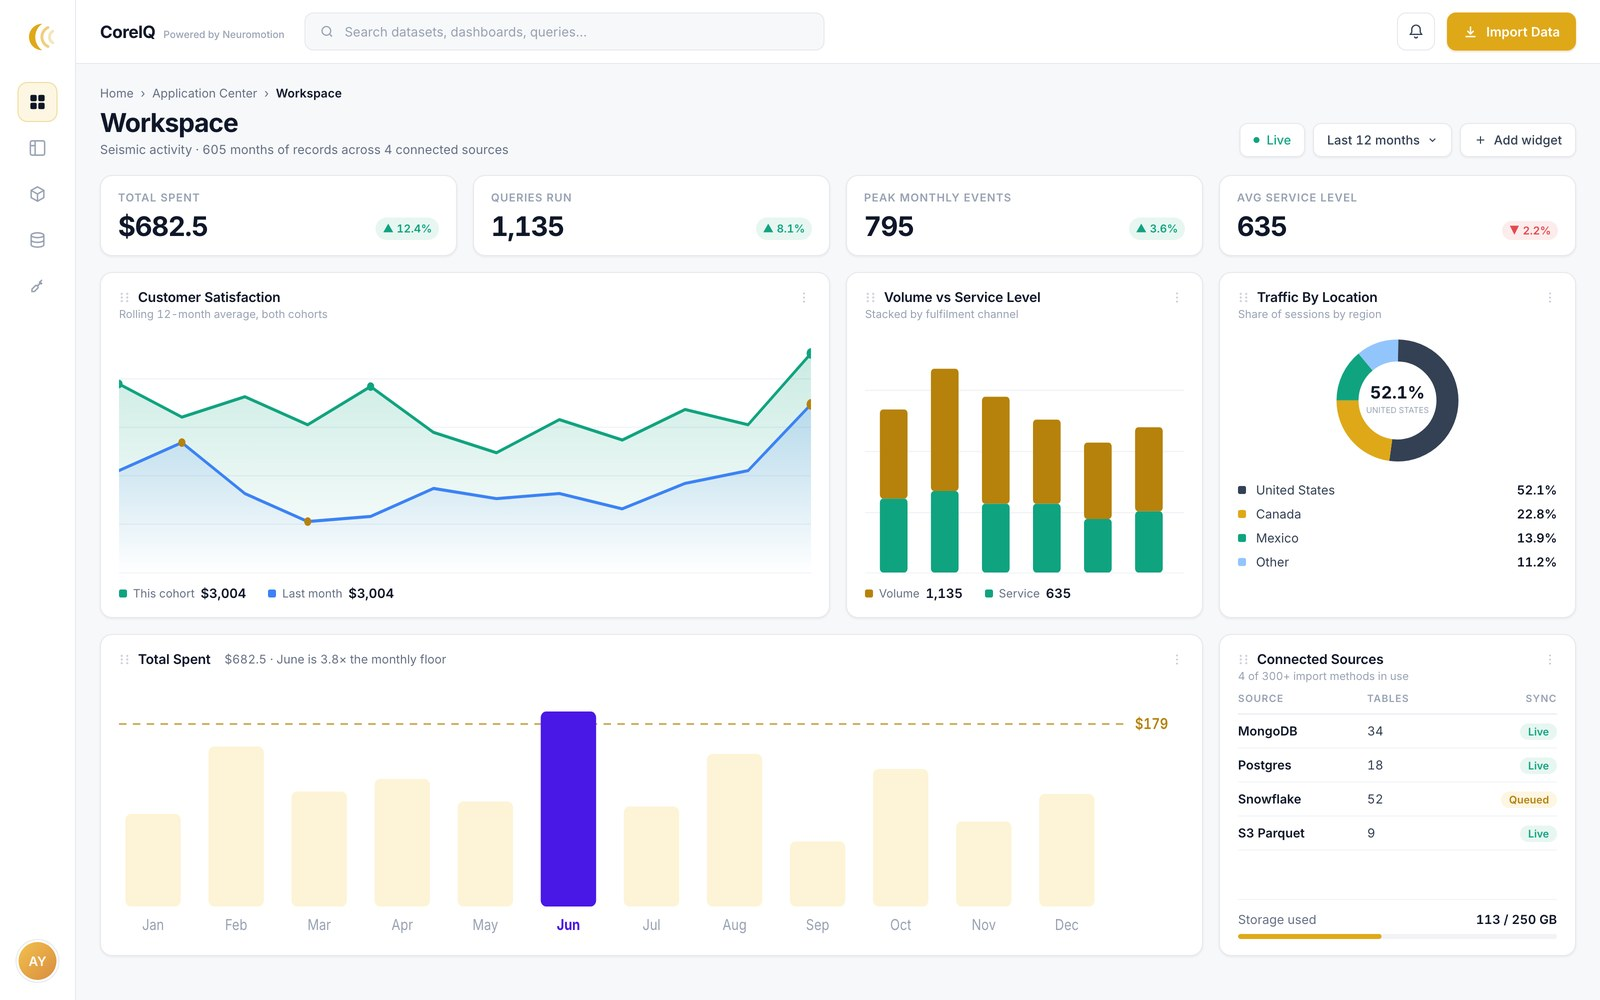
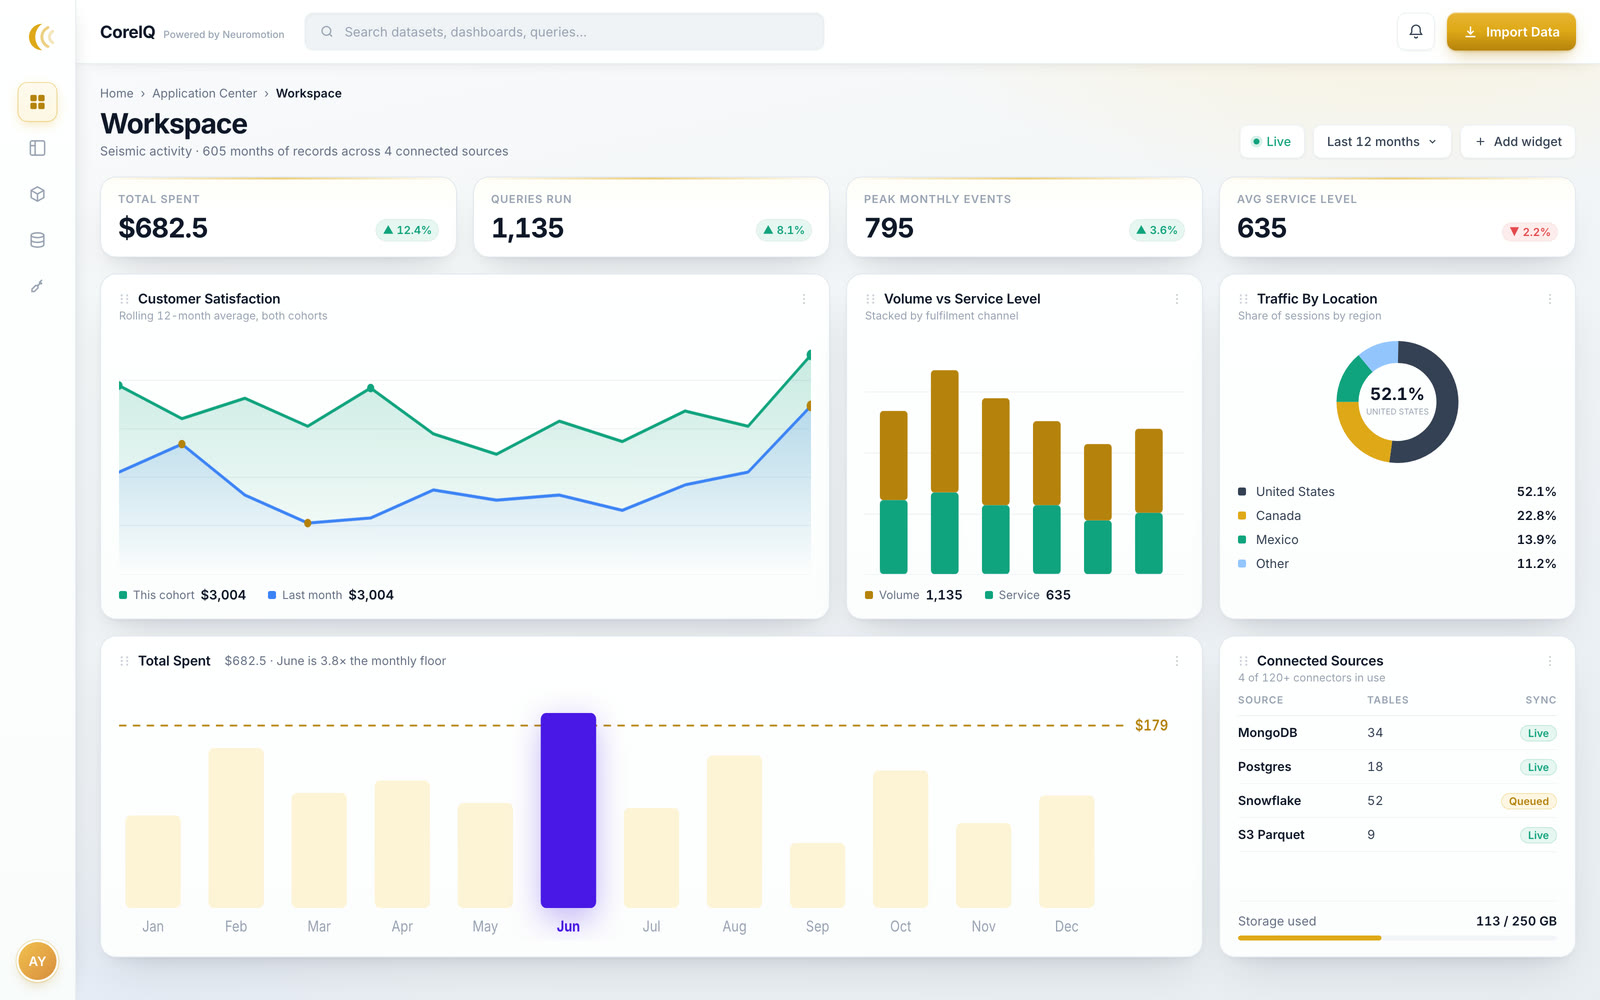
Mockup said 300+ import methods while the copy said 120+ connectors
The hero render is rebuilt art, so the number in it is a choice like any
other. Matched it to the figure the product publishes, and regenerated the jpg.

diff --git a/mockups/query-ai-dashboard.html b/mockups/query-ai-dashboard.html
@@ -37,12 +37,19 @@
         --ink-2: #344054;
         --muted: #667085;
         --faint: #98a2b3;
-        --line: #e7e9ee;
-        --line-soft: #f1f3f7;
-        --page: #f7f8fa;
+        --line: #ecf0f5;
+        --line-soft: #f3f5f9;
+        --page: #eff2f6;
         --card: #ffffff;
 
-        --shadow: 0 1px 2px rgba(16, 24, 40, 0.04), 0 1px 3px rgba(16, 24, 40, 0.03);
+        --shadow-xs: 0 1px 2px rgba(16, 24, 40, 0.05);
+        --shadow: 0 1px 1px rgba(16, 24, 40, 0.04), 0 4px 10px -2px rgba(16, 24, 40, 0.05),
+          0 14px 28px -10px rgba(16, 24, 40, 0.07);
+        --shadow-lift: 0 2px 4px rgba(16, 24, 40, 0.05), 0 14px 26px -8px rgba(16, 24, 40, 0.1),
+          0 30px 54px -16px rgba(16, 24, 40, 0.12);
+        /* the highlight that sells a surface as lit from above */
+        --ring: inset 0 1px 0 rgba(255, 255, 255, 0.92);
+        --ease: cubic-bezier(0.22, 1, 0.36, 1);
       }
 
       * { box-sizing: border-box; margin: 0; padding: 0; }
@@ -69,23 +76,30 @@
         flex-direction: column;
         align-items: center;
         padding: 18px 0 20px;
-        background: var(--card);
+        background: linear-gradient(180deg, #ffffff 0%, #fcfdfe 70%, #f9fbfc 100%);
+        box-shadow: 1px 0 0 rgba(16, 24, 40, 0.02), 8px 0 24px -18px rgba(16, 24, 40, 0.3);
+        position: relative; z-index: 3;
       }
       .logo { width: 38px; height: 38px; margin-bottom: 26px; }
       .rail-btn {
         width: 40px; height: 40px; border-radius: 10px;
         display: grid; place-items: center; margin-bottom: 6px; color: var(--faint);
+        transition: color 0.2s var(--ease), background 0.2s var(--ease), transform 0.2s var(--ease);
       }
+      .rail-btn:hover { color: var(--ink-2); background: var(--line-soft); }
       .rail-btn.on {
-        color: var(--ink); background: var(--gold-tint);
-        box-shadow: inset 0 0 0 1px rgba(223, 168, 24, 0.35);
+        color: var(--gold-deep);
+        background: linear-gradient(180deg, #fefaef, var(--gold-tint));
+        box-shadow: inset 0 0 0 1px rgba(223, 168, 24, 0.4), inset 0 1px 0 rgba(255, 255, 255, 0.9),
+          0 4px 12px -3px rgba(223, 168, 24, 0.35);
       }
       .rail-spacer { flex: 1; }
       .avatar {
         width: 38px; height: 38px; border-radius: 50%;
         background: linear-gradient(135deg, #f2c14e, #d98c3f);
         display: grid; place-items: center; color: #fff; font-size: 13px; font-weight: 600;
-        box-shadow: 0 0 0 2px #fff, 0 0 0 3px var(--line);
+        box-shadow: 0 0 0 2px #fff, 0 0 0 3px rgba(223, 168, 24, 0.28),
+          0 6px 14px -4px rgba(182, 130, 12, 0.45);
       }
 
       /* ----------------------------------------------------------- shell -- */
@@ -95,6 +109,8 @@
       .topbar {
         height: 64px; flex: none; border-bottom: 1px solid var(--line);
         display: flex; align-items: center; gap: 20px; padding: 0 24px; background: var(--card);
+        box-shadow: 0 1px 0 rgba(16, 24, 40, 0.02), 0 6px 18px -12px rgba(16, 24, 40, 0.18);
+        position: relative; z-index: 2;
       }
       .brand { display: flex; align-items: baseline; gap: 8px; }
       .brand-name { font-size: 17px; font-weight: 700; letter-spacing: -0.02em; }
@@ -105,35 +121,56 @@
         background: var(--page); border: 1px solid var(--line);
         display: flex; align-items: center; gap: 10px; padding: 0 14px;
         color: var(--faint); font-size: 13px;
+        box-shadow: inset 0 1px 2px rgba(16, 24, 40, 0.04);
+        transition: border-color 0.2s var(--ease), box-shadow 0.2s var(--ease);
       }
       .top-right { margin-left: auto; display: flex; align-items: center; gap: 12px; }
       .btn-gold {
-        height: 38px; padding: 0 16px; border-radius: 9px; background: var(--gold);
+        height: 38px; padding: 0 16px; border-radius: 9px;
+        background: linear-gradient(180deg, #e8b432 0%, var(--gold) 48%, var(--gold-deep) 100%);
         color: #fff; font-size: 13px; font-weight: 600; display: flex; align-items: center; gap: 8px;
-        box-shadow: 0 1px 2px rgba(182, 130, 12, 0.3);
+        box-shadow: inset 0 1px 0 rgba(255, 255, 255, 0.34), 0 1px 2px rgba(182, 130, 12, 0.34),
+          0 8px 18px -6px rgba(182, 130, 12, 0.5);
+        transition: transform 0.2s var(--ease), box-shadow 0.2s var(--ease), filter 0.2s var(--ease);
+      }
+      .btn-gold:hover {
+        transform: translateY(-1px);
+        filter: saturate(1.06) brightness(1.03);
+        box-shadow: inset 0 1px 0 rgba(255, 255, 255, 0.4), 0 2px 4px rgba(182, 130, 12, 0.3),
+          0 14px 26px -8px rgba(182, 130, 12, 0.55);
       }
       .icon-btn {
         width: 38px; height: 38px; border-radius: 9px; border: 1px solid var(--line);
         display: grid; place-items: center; color: var(--ink-2);
+        box-shadow: var(--shadow-xs);
+        transition: border-color 0.2s var(--ease), box-shadow 0.2s var(--ease), transform 0.2s var(--ease);
       }
 
       /* ----------------------------------------------------------- board -- */
 
-      .board { flex: 1; background: var(--page); padding: 22px 24px; overflow: hidden; }
+      .board {
+        flex: 1; padding: 22px 24px; overflow: hidden;
+        background: radial-gradient(900px 460px at 86% -16%, #fcefcf 0%, rgba(252, 239, 207, 0) 62%),
+          radial-gradient(820px 420px at -4% 108%, #e2e9f7 0%, rgba(226, 233, 247, 0) 60%),
+          linear-gradient(168deg, #f9fafc 0%, #eef1f6 58%, #e9edf3 100%);
+      }
 
       .crumbs { font-size: 12px; color: var(--muted); display: flex; align-items: center; gap: 7px; }
       .crumbs b { color: var(--ink); font-weight: 600; }
 
       .head { display: flex; align-items: flex-end; justify-content: space-between; margin: 8px 0 18px; }
-      .h1 { font-size: 26px; font-weight: 700; letter-spacing: -0.03em; line-height: 1.1; }
+      .h1 { font-size: 28px; font-weight: 700; letter-spacing: -0.035em; line-height: 1.08; }
       .h1-sub { font-size: 12.5px; color: var(--muted); margin-top: 5px; }
       .head-tools { display: flex; align-items: center; gap: 8px; }
       .chip {
         height: 34px; padding: 0 13px; border-radius: 8px; background: var(--card);
         border: 1px solid var(--line); font-size: 12.5px; font-weight: 500; color: var(--ink-2);
-        display: flex; align-items: center; gap: 7px; box-shadow: var(--shadow);
+        display: flex; align-items: center; gap: 7px; box-shadow: var(--shadow-xs);
+        transition: border-color 0.2s var(--ease), box-shadow 0.2s var(--ease), transform 0.2s var(--ease);
       }
+      .chip:hover { border-color: #d5dae3; box-shadow: var(--shadow-xs), 0 6px 14px -6px rgba(16, 24, 40, 0.22); }
       .chip.live { color: var(--green); }
+      .chip.live .dot { box-shadow: 0 0 0 3px rgba(16, 163, 127, 0.16); }
       .dot { width: 6px; height: 6px; border-radius: 50%; background: currentColor; }
 
       /* ------------------------------------------------------------ grid -- */
@@ -141,8 +178,26 @@
       .grid { display: grid; grid-template-columns: repeat(4, 1fr); gap: 16px; }
 
       .card {
-        background: var(--card); border: 1px solid var(--line); border-radius: 12px;
-        box-shadow: var(--shadow); padding: 16px 18px; display: flex; flex-direction: column;
+        background: linear-gradient(180deg, #fff 0%, #fdfdfe 100%);
+        border: 1px solid rgba(224, 230, 238, 0.9); border-radius: 16px;
+        box-shadow: var(--ring), 0 1px 2px rgba(16, 24, 40, 0.04),
+          0 8px 16px -6px rgba(16, 24, 40, 0.07), 0 22px 44px -16px rgba(16, 24, 40, 0.14);
+        padding: 16px 18px; display: flex; flex-direction: column;
+        transition: transform 0.28s var(--ease), box-shadow 0.28s var(--ease), border-color 0.28s var(--ease);
+      }
+      .card:hover {
+        transform: translateY(-3px);
+        border-color: rgba(210, 219, 230, 0.95);
+        box-shadow: var(--ring), 0 2px 4px rgba(16, 24, 40, 0.05),
+          0 16px 30px -8px rgba(16, 24, 40, 0.12), 0 40px 70px -24px rgba(16, 24, 40, 0.2);
+      }
+
+      /* KPI tiles get a hint of warmth at the top edge — reads as lit glass. */
+      .card.kpi { background: linear-gradient(180deg, #fffdf8 0%, #fff 42%); }
+      .card.kpi::before {
+        content: ''; height: 2px; margin: -15px -17px 13px; border-radius: 16px 16px 0 0;
+        background: linear-gradient(90deg, rgba(223, 168, 24, 0), var(--gold), rgba(223, 168, 24, 0));
+        opacity: 0.55;
       }
       .card-head { display: flex; align-items: center; gap: 8px; margin-bottom: 2px; }
       .grip { color: #cdd2dc; flex: none; }
@@ -158,6 +213,7 @@
       .delta {
         font-size: 11px; font-weight: 600; padding: 3px 7px; border-radius: 20px;
         display: inline-flex; align-items: center; gap: 3px;
+        box-shadow: inset 0 0 0 1px rgba(16, 24, 40, 0.03);
       }
       .up { color: var(--green); background: var(--green-tint); }
       .down { color: var(--rose); background: #fdecec; }
@@ -180,11 +236,102 @@
         text-transform: uppercase; color: var(--faint); padding: 0 0 9px;
         border-bottom: 1px solid var(--line);
       }
-      td { padding: 9px 0; font-size: 12.5px; color: var(--ink-2); border-bottom: 1px solid var(--line-soft); }
+      td { padding: 9px 0; font-size: 12.5px; color: var(--ink-2); border-bottom: 1px solid var(--line-soft);
+        transition: color 0.18s var(--ease); }
+      tbody tr { transition: opacity 0.18s var(--ease); }
+      tbody tr:hover td { color: var(--ink); }
+      tbody tr:hover td.n { color: var(--gold-deep); }
       td.n { font-weight: 600; color: var(--ink); }
       .pill { font-size: 10.5px; font-weight: 600; padding: 2px 8px; border-radius: 20px; }
       .pill.ok { color: var(--green); background: var(--green-tint); }
       .pill.warn { color: var(--gold-deep); background: var(--gold-tint); }
+      .pill.ok { box-shadow: inset 0 0 0 1px rgba(16, 163, 127, 0.14); }
+      .pill.warn { box-shadow: inset 0 0 0 1px rgba(223, 168, 24, 0.22); }
+
+      /* ======================================================================
+         Motion.
+
+         Everything is an entrance that SETTLES — no loops, no infinite pulses.
+         The screenshot render (virtual-time-budget 9s) lands long after the
+         last delay (~1.5s), so the static JPG captures the finished state and
+         only a live browser sees the build. Hover states are for the live file
+         and any screen recording; they cannot affect the still.
+         ==================================================================== */
+
+      @keyframes rise { from { opacity: 0; transform: translateY(14px); } to { opacity: 1; transform: none; } }
+      @keyframes fade { from { opacity: 0; } to { opacity: 1; } }
+      @keyframes draw { to { stroke-dashoffset: 0; } }
+      @keyframes grow { from { transform: scaleY(0); } to { transform: scaleY(1); } }
+      @keyframes wipe { from { transform: scaleX(0); } to { transform: scaleX(1); } }
+      @keyframes sweep { from { opacity: 0; transform: rotate(-16deg) scale(0.9); } to { opacity: 1; transform: none; } }
+
+      .rail, .topbar { animation: fade 0.5s ease both; }
+      .crumbs, .head { animation: rise 0.55s var(--ease) both; }
+      .head { animation-delay: 0.06s; }
+
+      /* Cards cascade left-to-right, row by row. */
+      .card { animation: rise 0.62s var(--ease) both; }
+      .board > .grid:nth-of-type(1) .card:nth-child(1) { animation-delay: 0.08s; }
+      .board > .grid:nth-of-type(1) .card:nth-child(2) { animation-delay: 0.14s; }
+      .board > .grid:nth-of-type(1) .card:nth-child(3) { animation-delay: 0.2s; }
+      .board > .grid:nth-of-type(1) .card:nth-child(4) { animation-delay: 0.26s; }
+      .board > .grid:nth-of-type(2) .card:nth-child(1) { animation-delay: 0.32s; }
+      .board > .grid:nth-of-type(2) .card:nth-child(2) { animation-delay: 0.38s; }
+      .board > .grid:nth-of-type(2) .card:nth-child(3) { animation-delay: 0.44s; }
+      .board > .grid:nth-of-type(3) .card:nth-child(1) { animation-delay: 0.5s; }
+      .board > .grid:nth-of-type(3) .card:nth-child(2) { animation-delay: 0.56s; }
+
+      /* Trend lines draw themselves; their area fills follow. */
+      .c-line path[stroke] {
+        stroke-dasharray: 1500; stroke-dashoffset: 1500;
+        animation: draw 1.15s cubic-bezier(0.36, 0, 0.12, 1) 0.5s both;
+      }
+      .c-line path[fill^='url'] { animation: fade 0.8s ease 0.8s both; }
+      .c-line circle { animation: fade 0.5s ease 1.35s both; }
+
+      /* Bars grow off the baseline. */
+      .c-bars rect, .c-stack rect {
+        transform-box: fill-box; transform-origin: 50% 100%;
+        animation: grow 0.7s var(--ease) both;
+      }
+      .c-stack g rect:nth-child(-n + 4) { animation-delay: 0.5s; }
+      .c-stack g rect:nth-child(n + 5):nth-child(-n + 8) { animation-delay: 0.57s; }
+      .c-stack g rect:nth-child(n + 9) { animation-delay: 0.64s; }
+      .c-bars g:first-of-type rect:nth-child(1) { animation-delay: 0.52s; }
+      .c-bars g:first-of-type rect:nth-child(2) { animation-delay: 0.57s; }
+      .c-bars g:first-of-type rect:nth-child(3) { animation-delay: 0.62s; }
+      .c-bars g:first-of-type rect:nth-child(4) { animation-delay: 0.67s; }
+      .c-bars g:first-of-type rect:nth-child(5) { animation-delay: 0.72s; }
+      .c-bars > rect { animation-delay: 0.77s; }
+      .c-bars g:last-of-type rect:nth-child(1) { animation-delay: 0.82s; }
+      .c-bars g:last-of-type rect:nth-child(2) { animation-delay: 0.87s; }
+      .c-bars g:last-of-type rect:nth-child(3) { animation-delay: 0.92s; }
+      .c-bars g:last-of-type rect:nth-child(4) { animation-delay: 0.97s; }
+      .c-bars g:last-of-type rect:nth-child(5) { animation-delay: 1.02s; }
+      .c-bars g:last-of-type rect:nth-child(6) { animation-delay: 1.07s; }
+
+      /* The peak month is the point of the chart — let it sit above the rest. */
+      .c-bars > rect[fill='#4917e6'] { filter: drop-shadow(0 8px 14px rgba(73, 23, 230, 0.32)); }
+      .c-bars line, .c-bars text { animation: fade 0.6s ease 1.1s both; }
+
+      .c-donut { animation: sweep 0.85s var(--ease) 0.5s both; }
+      .rows .row { animation: rise 0.5s var(--ease) both; }
+      .rows .row:nth-child(1) { animation-delay: 0.66s; }
+      .rows .row:nth-child(2) { animation-delay: 0.72s; }
+      .rows .row:nth-child(3) { animation-delay: 0.78s; }
+      .rows .row:nth-child(4) { animation-delay: 0.84s; }
+
+      .bar-fl { transform-origin: left center; animation: wipe 0.9s var(--ease) 0.8s both; }
+      .legend { animation: fade 0.6s ease 1.2s both; }
+      tbody tr { animation: fade 0.5s ease both; }
+      tbody tr:nth-child(1) { animation-delay: 0.62s; }
+      tbody tr:nth-child(2) { animation-delay: 0.68s; }
+      tbody tr:nth-child(3) { animation-delay: 0.74s; }
+      tbody tr:nth-child(4) { animation-delay: 0.8s; }
+
+      @media (prefers-reduced-motion: reduce) {
+        *, *::before, *::after { animation: none !important; transition: none !important; }
+      }
     </style>
   </head>
 
@@ -307,7 +454,7 @@
             </div>
             <div class="card-note">Rolling 12-month average, both cohorts</div>
 
-            <svg viewBox="0 0 660 190" style="width:100%;flex:1;margin-top:10px" preserveAspectRatio="none">
+            <svg class="c-line" viewBox="0 0 660 190" style="width:100%;flex:1;margin-top:10px" preserveAspectRatio="none">
               <defs>
                 <linearGradient id="gGreen" x1="0" y1="0" x2="0" y2="1">
                   <stop offset="0%" stop-color="#10a37f" stop-opacity=".22"/>
@@ -345,7 +492,7 @@
             </div>
             <div class="card-note">Stacked by fulfilment channel</div>
 
-            <svg viewBox="0 0 300 190" style="width:100%;flex:1;margin-top:10px" preserveAspectRatio="none">
+            <svg class="c-stack" viewBox="0 0 300 190" style="width:100%;flex:1;margin-top:10px" preserveAspectRatio="none">
               <g stroke="#f1f3f7" stroke-width="1">
                 <line x1="0" y1="47" x2="300" y2="47"/><line x1="0" y1="95" x2="300" y2="95"/><line x1="0" y1="143" x2="300" y2="143"/>
               </g>
@@ -375,7 +522,7 @@
             <div class="card-note">Share of sessions by region</div>
 
             <div style="display:grid;place-items:center;margin:14px 0 4px">
-              <svg width="132" height="132" viewBox="0 0 42 42">
+              <svg class="c-donut" width="132" height="132" viewBox="0 0 42 42">
                 <circle cx="21" cy="21" r="15.9" fill="none" stroke="#f1f3f7" stroke-width="7"/>
                 <circle cx="21" cy="21" r="15.9" fill="none" stroke="#344054" stroke-width="7"
                         stroke-dasharray="52.1 47.9" stroke-dashoffset="25" stroke-linecap="butt"/>
@@ -410,7 +557,7 @@
               <svg class="kebab" width="14" height="14" viewBox="0 0 24 24" fill="currentColor"><circle cx="12" cy="5" r="1.6"/><circle cx="12" cy="12" r="1.6"/><circle cx="12" cy="19" r="1.6"/></svg>
             </div>
 
-            <svg viewBox="0 0 1000 206" style="width:100%;flex:1;margin-top:12px" preserveAspectRatio="none">
+            <svg class="c-bars" viewBox="0 0 1000 206" style="width:100%;flex:1;margin-top:12px" preserveAspectRatio="none">
               <line x1="0" y1="34" x2="946" y2="34" stroke="#b6820c" stroke-width="1.4" stroke-dasharray="7 6" opacity=".7"/>
               <text x="954" y="38" font-size="12" fill="#b6820c" font-weight="600">$179</text>
               <g fill="#fdf3d6">
@@ -450,7 +597,7 @@
               <span class="card-title">Connected Sources</span>
               <svg class="kebab" width="14" height="14" viewBox="0 0 24 24" fill="currentColor"><circle cx="12" cy="5" r="1.6"/><circle cx="12" cy="12" r="1.6"/><circle cx="12" cy="19" r="1.6"/></svg>
             </div>
-            <div class="card-note">4 of 300+ import methods in use</div>
+            <div class="card-note">4 of 120+ connectors in use</div>
 
             <table>
               <thead><tr><th>Source</th><th>Tables</th><th style="text-align:right">Sync</th></tr></thead>
